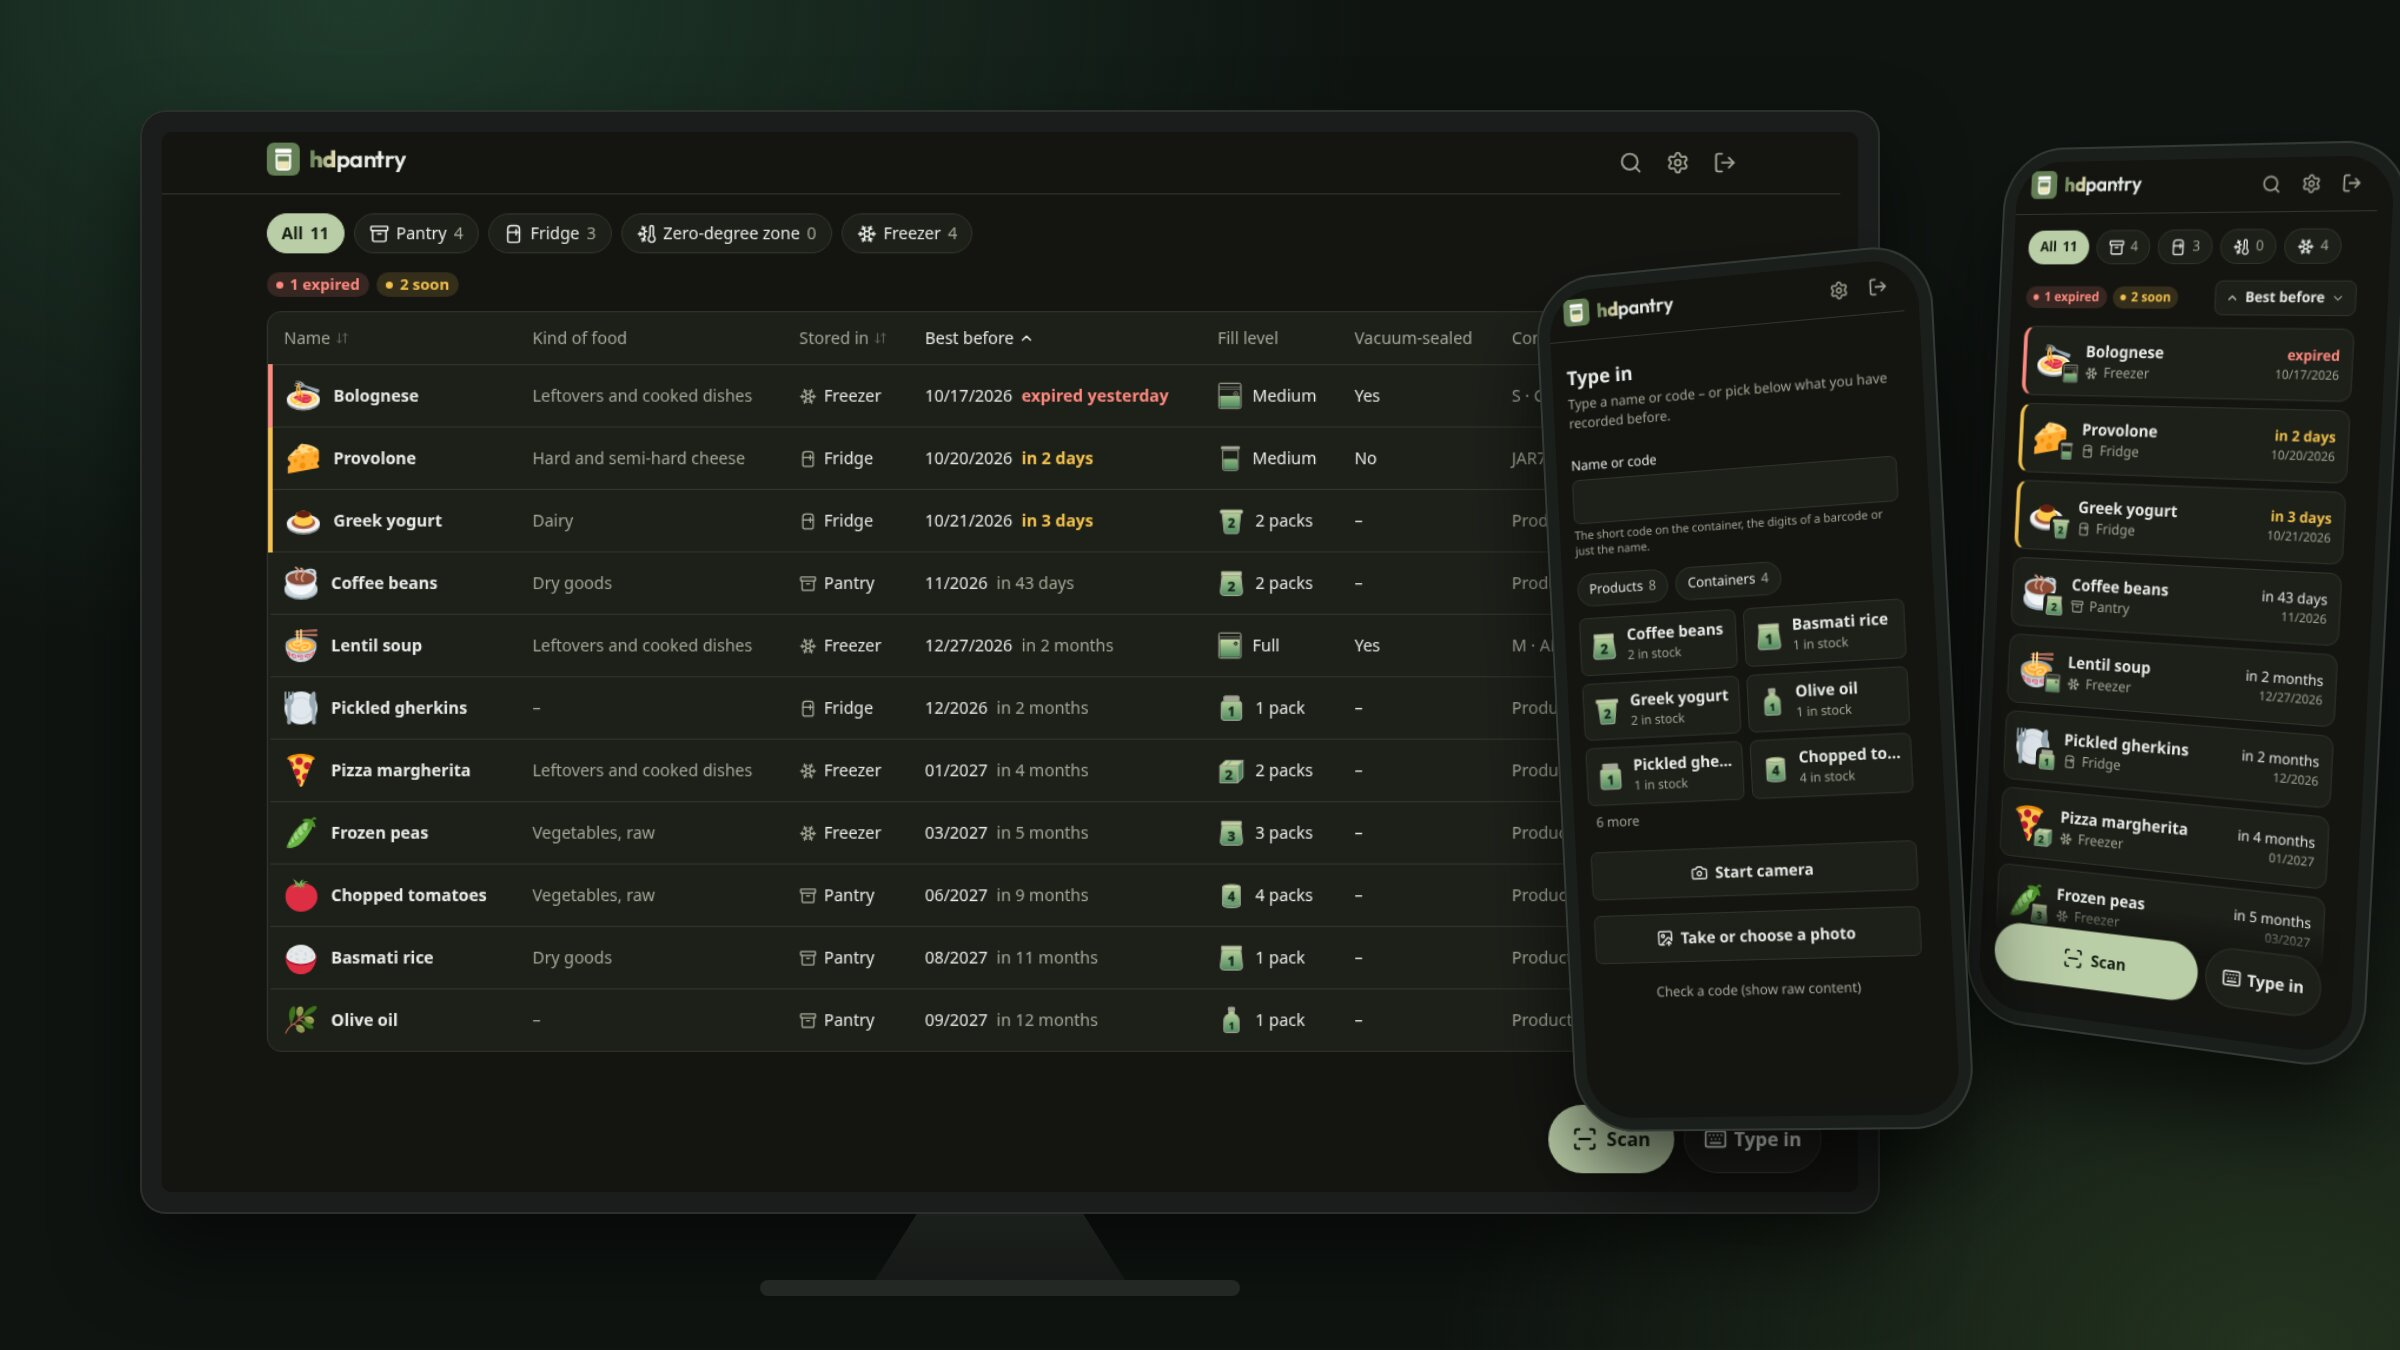
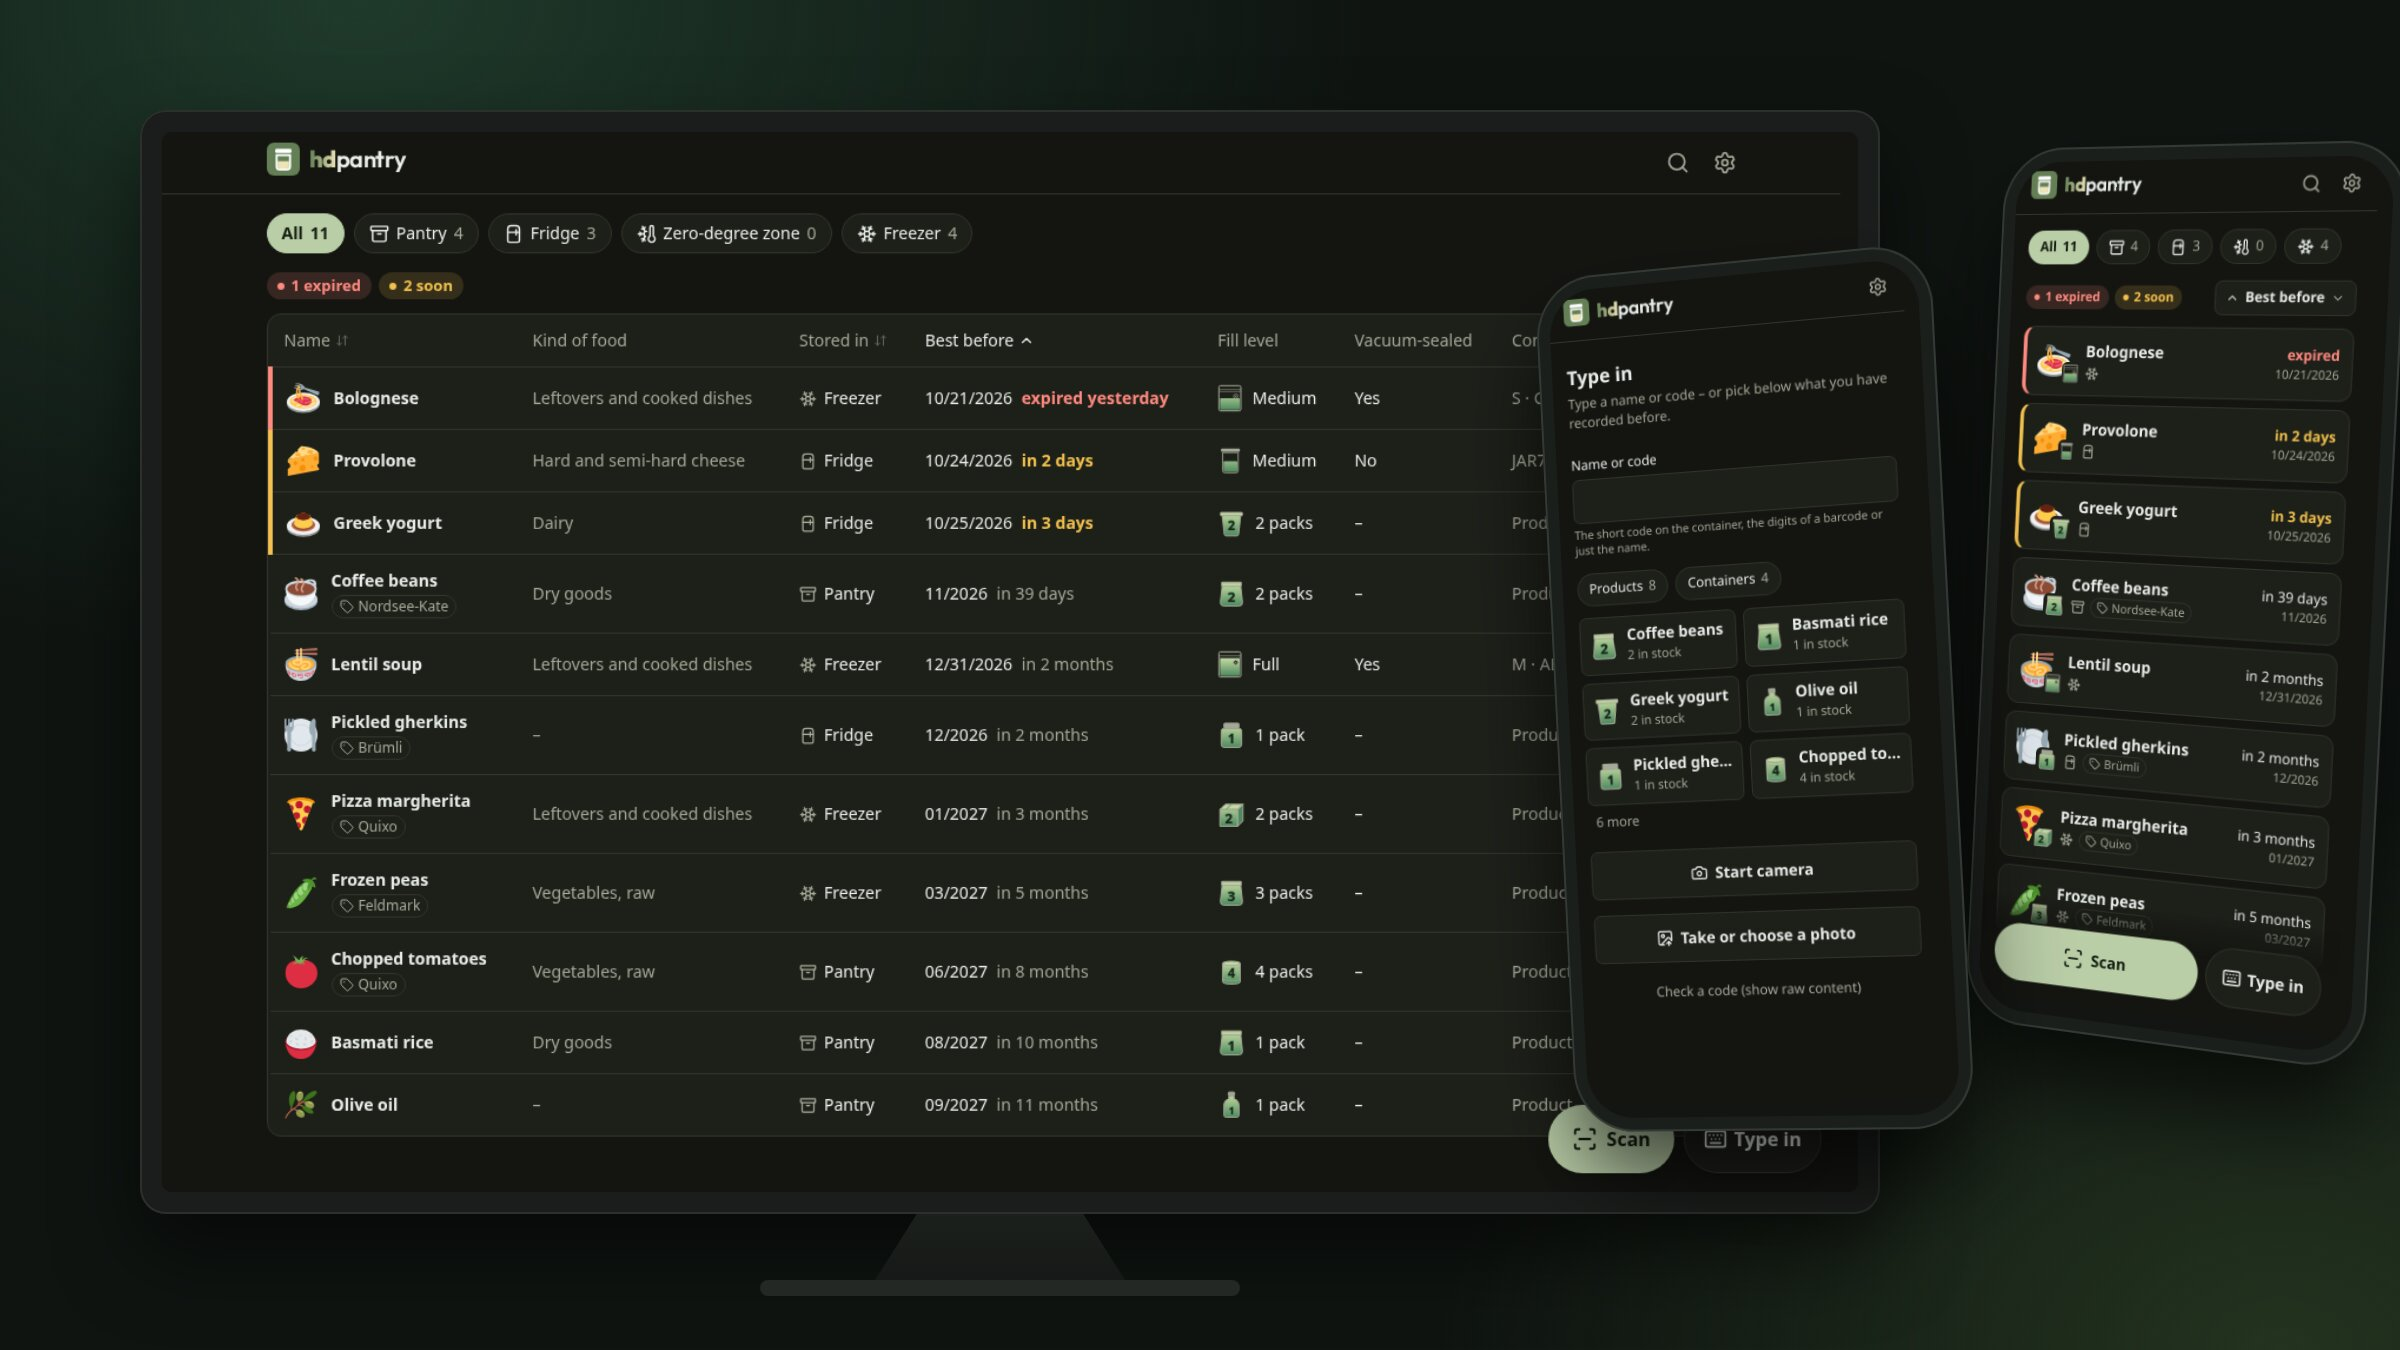
README: brands and tap-to-filter; screenshots of 0.4.0

diff --git a/README.md b/README.md
@@ -44,10 +44,10 @@ What changed in each version: [Changelog](CHANGELOG.md). What's planned: [Roadma
 - 📷 **Scan** – hold a code in front of the camera and hdpantry leads on right away, without a button or a question: a full container shows what is inside, an empty one asks for a name, the barcode of a pack adds it to its product. A photo of the code works too, and any QR code will do. Where a QR code fails – a creased, dented or frosted label – hdpantry can read a code printed as text instead (OCR, in the browser; for now four-character codes only).
 - ⌨ **Type in** – one field for a name, a short code or the digits of a barcode, and below it everything recorded before, the ones used last first: one tap, and the thing you buy every week is in again.
 - 🥡 **Containers** – every code is one container, added by itself the first time it is scanned. Mark the content as eaten – or replace it in one go – and the container is free for the next thing; scanning it then shows what was in it before, ready to be used again with one tap. Containers without a code can be recorded by hand and merged with their code later.
-- 🛒 **Products** – bought packs next to your containers: frozen peas, a jar of pickles, bread from the baker. One line per product with the number of packs and the nearest date, every pack with its own best-before date as printed. Drawn as its pack – box, bag, can, jar, bottle or cup. If you like, hdpantry looks up name, maker and kind of an unknown barcode in the free database Open Food Facts (off by default).
+- 🛒 **Products** – bought packs next to your containers: frozen peas, a jar of pickles, bread from the baker. One line per product with the number of packs and the nearest date, every pack with its own best-before date as printed. Drawn as its pack – box, bag, can, jar, bottle or cup, with its brand as a small tag. If you like, hdpantry looks up name, maker and kind of an unknown barcode in the free database Open Food Facts (off by default).
 - 📝 **Quick entry** – one name, then an optional note, vacuum-sealed or not, where it is stored, best before, how full it is and, if you like, how much (g, kg, ml, l, pieces, servings – it follows the fill level). Everything can be corrected later.
 - 📅 **Shelf life** – the kind of food and a symbol are suggested from its name (German and English; your corrections are remembered). Suitable places of storage are marked, unsuitable ones locked, and a best-before date is suggested from the kind of food, the place and whether it is vacuum-sealed – [guide values, not a guarantee](#-shelf-life).
-- 📋 **In stock** – everything you have, what expires first at the top; expired and soon-to-expire items stand out. Filter by place of storage, search by name, sort by date, name or place. Cards on phones, a wide table on computers.
+- 📋 **In stock** – everything you have, what expires first at the top; expired and soon-to-expire items stand out. Filter by place of storage, tap a brand or "expired" to see only those, search by name or brand, sort by date, name or place. Cards on phones, a wide table on computers.
 - 🔔 **Reminders** – a message before something expires (once or every day), on the day and after, one by one or as one summary a day from an hour you choose. No extra app, no third-party account – or, if you prefer, through Pushover, ntfy or a webhook (Gotify, Apprise, Home Assistant, …).
 - 📤 **Export and import** – your whole stock with its history as one readable file (JSON). Importing replaces the stock, after a clear warning.
 - 🧊 **Stock in the cabinet** – a bit of fun you can switch on: pick a place of storage and the list stands inside a drawn fridge, freezer or wooden cabinet.
